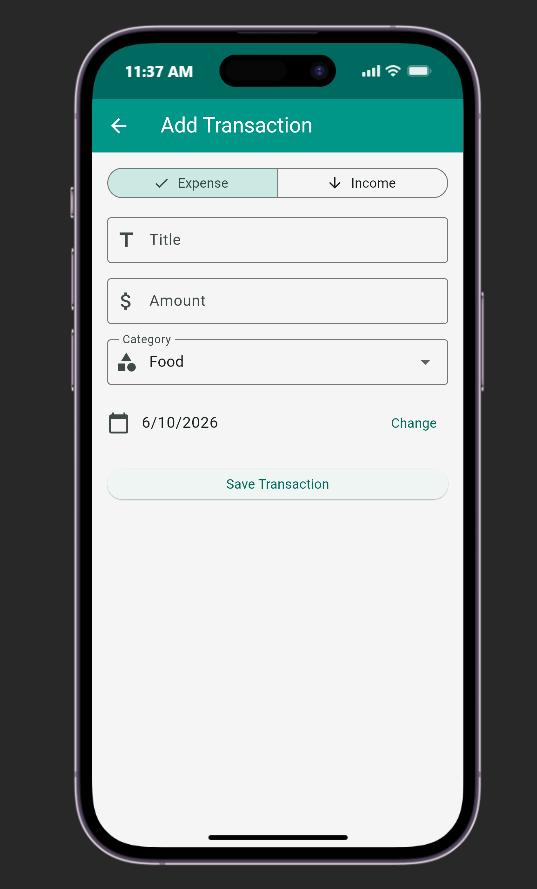
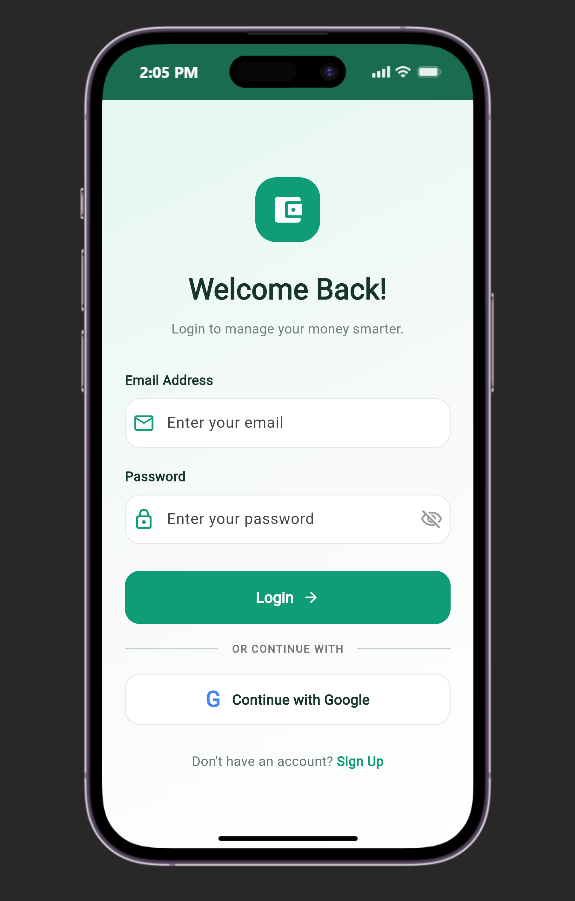
update expence traker apps

diff --git a/config.js b/config.js
@@ -50,7 +50,9 @@ const PROJECTS = [
   },
   {
     n: "Expense Tracker",
-    shots: ["assets/images/ex1.png","assets/images/ex2.png","assets/images/ex3.png","assets/images/ex4.png"],
+    shots: ["assets/images/ex1.png","assets/images/ex2.png","assets/images/ex3.png","assets/images/ex4.png",
+      "assets/images/ex5.png","assets/images/ex6.png","assets/images/ex7.png","assets/images/ex8.png"
+    ],
     d: "An expense and income management application.",
     t: ["Flutter", "Dart", "Firebase", "Cloud Firestore"],
     f: ["Add income", "Add expenses", "Daily report", "Monthly report", "Expense visualization and charts"],
